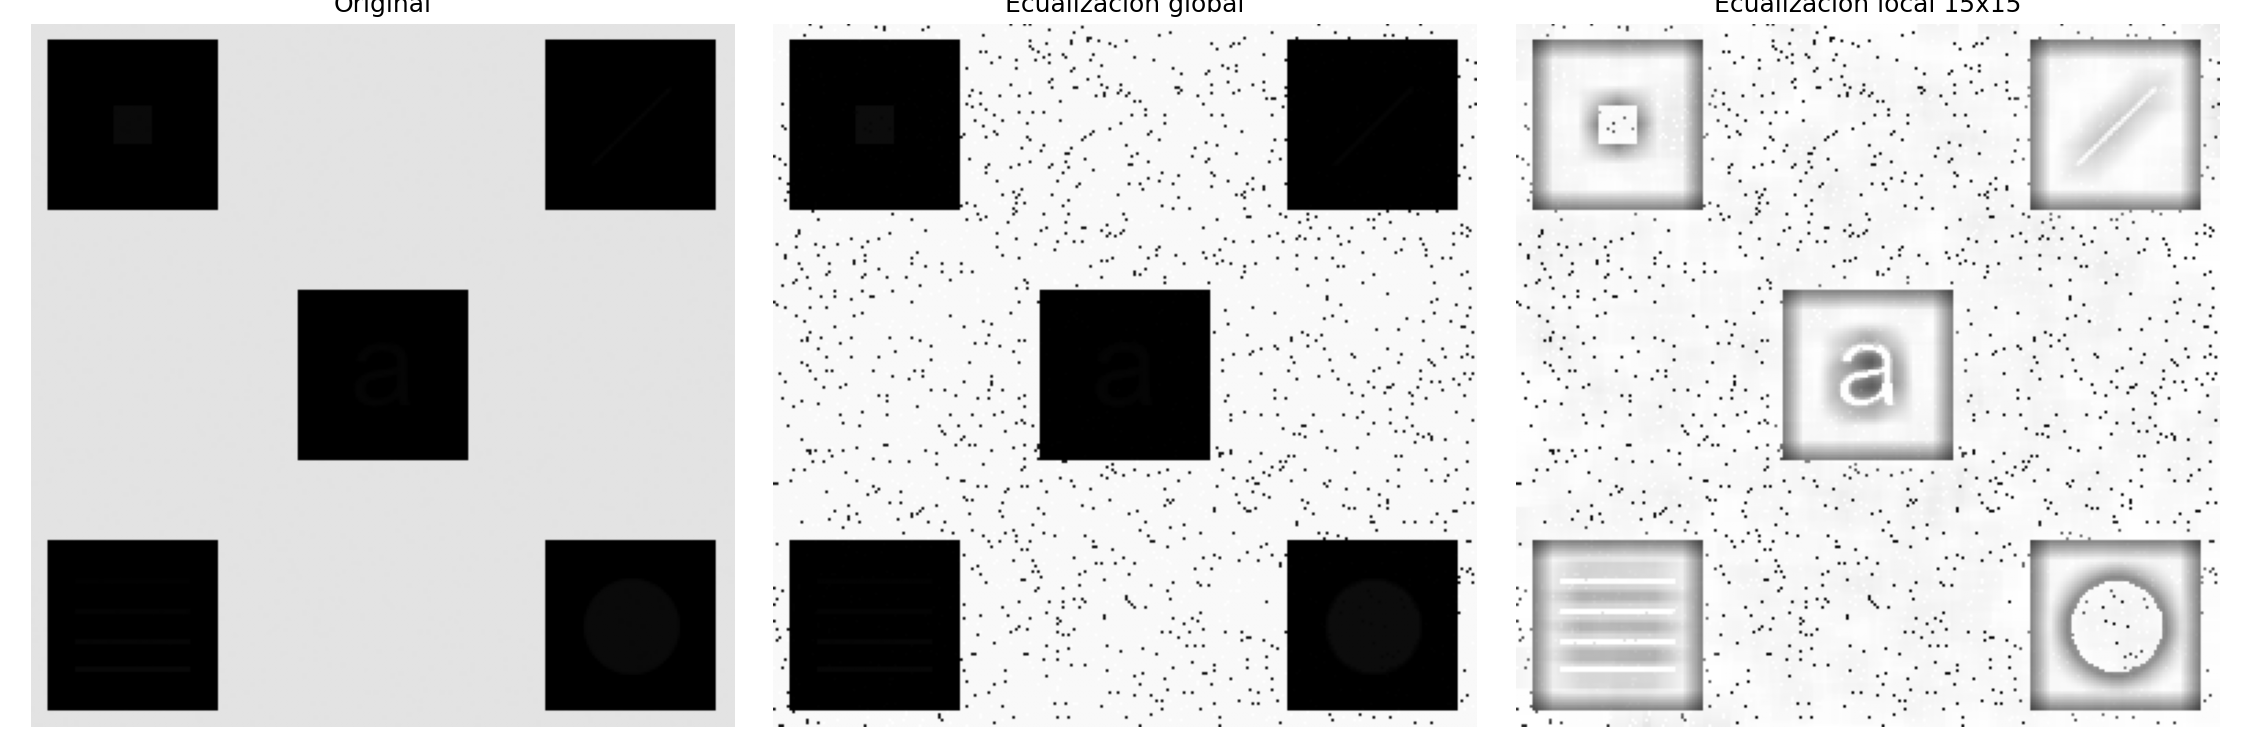
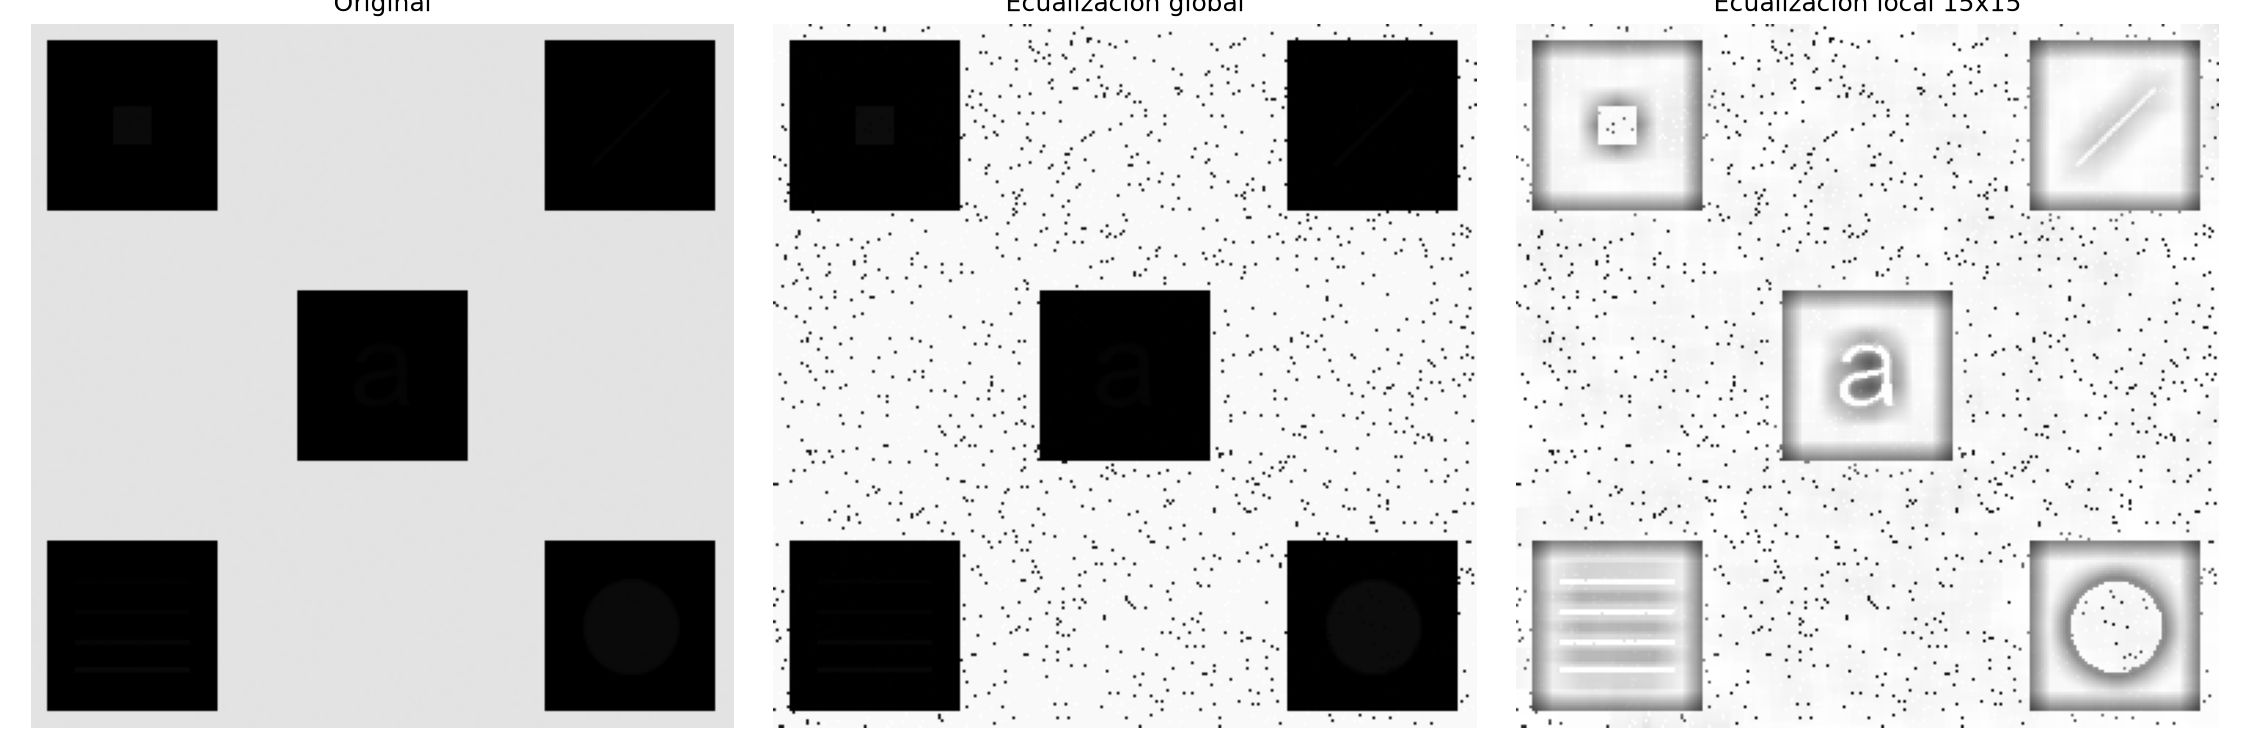
Ajustar ecualización local según la cátedra

diff --git a/problema1.py b/problema1.py
@@ -11,37 +11,40 @@ OUTPUT_DIR = Path(__file__).parent / "outputs"
 IMG_PATH = DATA_DIR / "Imagen_con_detalles_escondidos.tif"
 
 
-def ecualizacion_local(img: np.ndarray, M: int, N: int) -> np.ndarray:
+def ecualizacion_local(img, M, N):
     """Ecualización local de histograma con una ventana de M filas x N columnas.
 
     Para cada píxel se toma la ventana centrada en él, se calcula el histograma
     de la ventana y su transformación de ecualización T(r) = (L-1) * CDF(r),
     y se aplica T únicamente al píxel central.
 
-    Como T(r) = (L-1) * #{píxeles de la ventana <= r} / (M*N), evaluar T en el
-    píxel central equivale a contar cuántos píxeles de la ventana son menores o
-    iguales a él. Eso permite resolver cada fila de forma vectorizada.
+    Se usa la CDF de la unidad 2, sin restar su primer valor no nulo.
+    Para ventanas pares se fija el ancla en (M//2, N//2): hay un vecino más
+    hacia arriba/izquierda. El borde se completa replicando píxeles.
     """
-    if img.ndim != 2:
-        raise ValueError("La imagen debe estar en escala de grises.")
-    if not (isinstance(M, int) and isinstance(N, int) and M > 0 and N > 0):
+    if not isinstance(img, np.ndarray) or img.ndim != 2 or img.size == 0:
+        raise ValueError("La imagen debe ser una matriz no vacía en escala de grises.")
+    if img.dtype != np.uint8:
+        raise TypeError("La imagen debe ser uint8 (intensidades entre 0 y 255).")
+    if type(M) != int or type(N) != int:
+        raise ValueError("M y N deben ser enteros positivos.")
+    if M <= 0 or N <= 0:
         raise ValueError("M y N deben ser enteros positivos.")
 
     L = 256
-    img = img.astype(np.uint8)
     top, left = M // 2, N // 2
     bottom, right = M - 1 - top, N - 1 - left
     img_pad = cv2.copyMakeBorder(img, top, bottom, left, right, cv2.BORDER_REPLICATE)
 
-    # ventanas[i, j] es la ventana MxN centrada en el píxel (i, j) de la imagen original
-    ventanas = np.lib.stride_tricks.sliding_window_view(img_pad, (M, N))
-
-    salida = np.empty_like(img)
+    salida = np.zeros(img.shape, dtype=np.uint8)
     area = M * N
     for i in range(img.shape[0]):
-        centro = img[i][:, None, None]                        # (W, 1, 1)
-        cdf_centro = np.count_nonzero(ventanas[i] <= centro, axis=(1, 2)) / area
-        salida[i] = np.round((L - 1) * cdf_centro).astype(np.uint8)
+        for j in range(img.shape[1]):
+            ventana = img_pad[i:i + M, j:j + N]
+            # Histograma de la ventana y distribución acumulada.
+            hist, bins = np.histogram(ventana.flatten(), L, [0, L])
+            cdf = hist.cumsum() / area
+            salida[i, j] = np.round((L - 1) * cdf[img[i, j]])
     return salida
 
 
@@ -74,14 +77,20 @@ def main():
     axs[0].imshow(img, cmap="gray", vmin=0, vmax=255)
     axs[0].set_title("Original")
     for ax, (M, N) in zip(axs[1:], ventanas):
-        ax.imshow(ecualizacion_local(img, M, N), cmap="gray", vmin=0, vmax=255)
+        if (M, N) == (15, 15):
+            resultado = img_local
+        else:
+            resultado = ecualizacion_local(img, M, N)
+        ax.imshow(resultado, cmap="gray", vmin=0, vmax=255)
         ax.set_title(f"Ventana {M}x{N}")
     for ax in axs:
         ax.axis("off")
     fig.tight_layout()
     fig.savefig(OUTPUT_DIR / "p1_tamanios_ventana.png", dpi=150)
 
+    print(f"Figuras guardadas en {OUTPUT_DIR}")
     plt.show()
+    plt.close("all")
 
 
 if __name__ == "__main__":

diff --git a/README.md b/README.md
@@ -4,22 +4,32 @@
 
 ```
 data/          imágenes de entrada provistas por la cátedra
-outputs/       resultados generados (imágenes, CSV)
+outputs/       figuras generadas
 problema1.py   ecualización local de histograma
-problema2.py   validación de planillas de calificaciones
 ```
 
 ## Instalación
 
 ```bash
+python -m venv .venv
+source .venv/bin/activate  # Windows: .venv\Scripts\activate
 pip install -r requirements.txt
 ```
 
 ## Ejecución
 
-Copiar las imágenes del TP en `data/` y ejecutar:
+Las imágenes provistas ya están incluidas en `data/`. Desde esta carpeta:
 
 ```bash
 python problema1.py
-python problema2.py
 ```
+
+El problema 1 guarda dos figuras comparativas en `outputs/` y las muestra:
+
+- `p1_global_vs_local.png`: imagen original, ecualización global y local.
+- `p1_tamanios_ventana.png`: comparación de distintos tamaños de ventana.
+
+Para usar otra imagen, se cambia `IMG_PATH` al principio de `problema1.py`.
+
+Las rutas predeterminadas se resuelven desde la ubicación del script, de modo
+que también se puede ejecutar desde otra carpeta usando su ruta completa.
